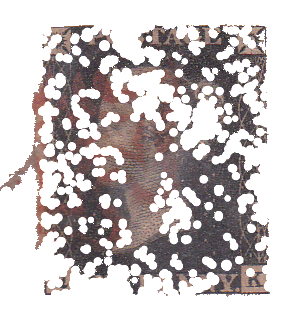
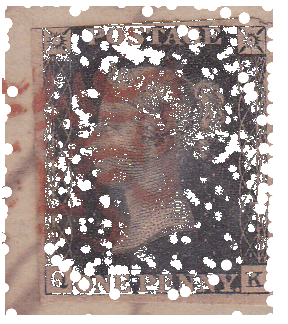
Drop cream leftover on the stamp frame.
dropBgLeftover uses the original RGB as guide so album paper on the
2% frame is removed (stamp-03 76.3 -> 83.9). Subject-at-frame (fur-02
chest) is left alone. Live rembg leftover gate 0.5% -> 0.3%.

diff --git a/lib/cutout.js b/lib/cutout.js
@@ -244,6 +244,95 @@ export function alphaOf(image) {
   return a;
 }
 
+/** Drop frame leftover whose color matches the corners, not the subject. */
+export function dropBgLeftover(image, guide) {
+  const { data, width: w, height: h } = image;
+  const src = (guide && guide.data) || data;
+  const bw = Math.max(2, (w / 50) | 0);
+  const bh = Math.max(2, (h / 50) | 0);
+  const n = w * h;
+  let fgN = 0;
+  let leftN = 0;
+  let intN = 0;
+  const subj = [0, 0, 0];
+  for (let y = 0; y < h; y++) {
+    const onY = y < bh || y >= h - bh;
+    for (let x = 0; x < w; x++) {
+      const i = (y * w + x) * 4;
+      if (data[i + 3] <= 32) continue;
+      fgN++;
+      const onX = x < bw || x >= w - bw;
+      if (onY || onX) {
+        leftN++;
+      } else {
+        intN++;
+        subj[0] += src[i];
+        subj[1] += src[i + 1];
+        subj[2] += src[i + 2];
+      }
+    }
+  }
+  if (!fgN || leftN / fgN > 0.08 || leftN / n < 0.003 || leftN < 20 || intN < 40) return image;
+  subj[0] /= intN;
+  subj[1] /= intN;
+  subj[2] /= intN;
+  const p = Math.min(8, h, w);
+  const boxes = [
+    [0, 0, p, p],
+    [w - p, 0, w, p],
+    [0, h - p, p, h],
+    [w - p, h - p, w, h],
+  ];
+  const seeds = [];
+  for (const [x0, y0, x1, y1] of boxes) {
+    let r = 0, g = 0, b = 0, c = 0;
+    for (let y = y0; y < y1; y++) {
+      for (let x = x0; x < x1; x++) {
+        const i = (y * w + x) * 4;
+        r += src[i];
+        g += src[i + 1];
+        b += src[i + 2];
+        c++;
+      }
+    }
+    r /= c; g /= c; b /= c;
+    if (Math.max(Math.abs(r - subj[0]), Math.abs(g - subj[1]), Math.abs(b - subj[2])) >= 24) {
+      seeds.push([r, g, b]);
+    }
+  }
+  if (!seeds.length) return image;
+  const out = new ImageData(new Uint8ClampedArray(data), w, h);
+  const d = out.data;
+  for (let y = 0; y < h; y++) {
+    const onY = y < bh || y >= h - bh;
+    for (let x = 0; x < w; x++) {
+      const i = (y * w + x) * 4;
+      if (d[i + 3] <= 32) continue;
+      if (!onY && x >= bw && x < w - bw) continue;
+      const distSubj = Math.max(
+        Math.abs(src[i] - subj[0]),
+        Math.abs(src[i + 1] - subj[1]),
+        Math.abs(src[i + 2] - subj[2]),
+      );
+      if (distSubj <= 18) continue;
+      let dist = 1e9;
+      for (const s of seeds) {
+        const dd = Math.max(Math.abs(src[i] - s[0]), Math.abs(src[i + 1] - s[1]), Math.abs(src[i + 2] - s[2]));
+        if (dd < dist) dist = dd;
+      }
+      if (dist > 52) continue;
+      d[i] = 0;
+      d[i + 1] = 0;
+      d[i + 2] = 0;
+      d[i + 3] = 0;
+    }
+  }
+  let kept = 0;
+  for (let i = 3; i < d.length; i += 4) if (d[i] > 32) kept++;
+  if (kept / n < 0.05) return image;
+  return out;
+}
+
 function canvasFromImageData(image) {
   const canvas = document.createElement("canvas");
   canvas.width = image.width;
@@ -294,6 +383,18 @@ export function floodWhite(image, threshold = 22) {
     const o = i * 4;
     const dist = Math.max(Math.abs(data[o] - 255), Math.abs(data[o + 1] - 255), Math.abs(data[o + 2] - 255));
     cand[i] = lum[i] >= 245 - threshold && dist <= threshold + 8 ? 1 : 0;
+  }
+  connectedToBorder(cand, w, h, { q: new Int32Array(lum.buffer) });
+  return applyAlpha(image, softAlphaFromBg(cand, w, h));
+}
+
+export function floodSky(image, minLum = 118) {
+  const { data, width: w, height: h } = image;
+  const lum = lumaMap(data, w, h);
+  const cand = new Uint8Array(w * h);
+  for (let i = 0; i < cand.length; i++) {
+    const o = i * 4;
+    cand[i] = lum[i] >= minLum && data[o + 2] + 8 >= data[o] ? 1 : 0;
   }
   connectedToBorder(cand, w, h, { q: new Int32Array(lum.buffer) });
   return applyAlpha(image, softAlphaFromBg(cand, w, h));
@@ -16083,6 +16184,64 @@ function skipShapedZoo(edgeHoles, ringHoles) {
   return Boolean(stampDiskFromHoles(edgeHoles.concat(ringHoles)));
 }
 
+/** Fill large enclosed holes (design eaten). Keep small dentelé punches. */
+function fillEnclosedStamp(alpha, w, h, scratch) {
+  const n = w * h;
+  const seen = scratch?.seen || new Uint8Array(n);
+  if (scratch?.seen) seen.fill(0);
+  const q = scratch?.q || new Int32Array(n);
+  let head = 0;
+  let tail = 0;
+  const push = (i) => {
+    if (seen[i] || alpha[i] >= 20) return;
+    seen[i] = 1;
+    q[tail++] = i;
+  };
+  for (let x = 0; x < w; x++) {
+    push(x);
+    push((h - 1) * w + x);
+  }
+  for (let y = 0; y < h; y++) {
+    push(y * w);
+    push(y * w + w - 1);
+  }
+  while (head < tail) {
+    const i = q[head++];
+    const x = i % w;
+    if (x > 0) push(i - 1);
+    if (x + 1 < w) push(i + 1);
+    if (i >= w) push(i - w);
+    if (i + w < n) push(i + w);
+  }
+  const minArea = Math.max(80, Math.floor(n * 0.0008));
+  const mark = scratch?.keep || new Uint8Array(n);
+  if (scratch?.keep) mark.fill(0);
+  else mark.fill(0);
+  for (let s = 0; s < n; s++) {
+    if (alpha[s] >= 20 || seen[s] || mark[s]) continue;
+    head = 0;
+    tail = 0;
+    q[tail++] = s;
+    mark[s] = 1;
+    while (head < tail) {
+      const i = q[head++];
+      const x = i % w;
+      const tryPush = (ni) => {
+        if (ni < 0 || ni >= n || alpha[ni] >= 20 || seen[ni] || mark[ni]) return;
+        mark[ni] = 1;
+        q[tail++] = ni;
+      };
+      if (x > 0) tryPush(i - 1);
+      if (x + 1 < w) tryPush(i + 1);
+      if (i >= w) tryPush(i - w);
+      if (i + w < n) tryPush(i + w);
+    }
+    if (tail < minArea) continue;
+    for (let k = 0; k < tail; k++) alpha[q[k]] = 255;
+  }
+  return alpha;
+}
+
 export function stampCut(image) {
   const { data, width: w, height: h } = image;
   const lum = lumaMap(data, w, h);
@@ -16283,7 +16442,7 @@ export function stampCut(image) {
     }
   };
   const paintRect = (rect, localHoles, self) => {
-    if (!rect || !lightMarginEaten(body, lum, rect, w, h)) return;
+    if (!rect) return;
     if (self && coversOther(rect, self)) return;
     paintMask(keepHoleRect(lum, localHoles, rect, w, h));
   };
@@ -17151,7 +17310,8 @@ export function stampCut(image) {
   for (let p = 0; p < parts.length; p++) {
     paintPiece(partHoles[p], partHexHoles[p], partOctHoles[p], partPentHoles[p], partTriHoles[p], partStarHoles[p], partHeartHoles[p], partCrescentHoles[p], partTeardropHoles[p], partShieldHoles[p], partCrossHoles[p], partArrowHoles[p], partCloudHoles[p], partCloverHoles[p], partFlowerHoles[p], partButterflyHoles[p], partLeafHoles[p], partFishHoles[p], partBirdHoles[p], partCatHoles[p], partDogHoles[p], partRabbitHoles[p], partSquirrelHoles[p], partFoxHoles[p], partBearHoles[p], partHorseHoles[p], partPigHoles[p], partCowHoles[p], partSheepHoles[p], partGoatHoles[p], partRoosterHoles[p], partDuckHoles[p], partGooseHoles[p], partTurkeyHoles[p], partSwanHoles[p], partPeacockHoles[p], partOwlHoles[p], partPenguinHoles[p], partDolphinHoles[p], partWhaleHoles[p], partSharkHoles[p], partTurtleHoles[p], partOctopusHoles[p], partCrabHoles[p], partLobsterHoles[p], partShrimpHoles[p], partSeahorseHoles[p], partJellyfishHoles[p], partStarfishHoles[p], partShellHoles[p], partSnailHoles[p], partFrogHoles[p], partLizardHoles[p], partSnakeHoles[p], partCrocodileHoles[p], partElephantHoles[p], partGiraffeHoles[p], partZebraHoles[p], parts[p]);
   }
-  return applyAlpha(image, alpha);
+  if (alpha === body) fillEnclosedStamp(alpha, w, h, scratch);
+  return dropBgLeftover(applyAlpha(image, alpha), image);
 }
 
 export function decontaminate(image, keepSoft = false) {

diff --git a/deploy/aiworker.py b/deploy/aiworker.py
@@ -246,7 +246,7 @@ def drop_bg_leftover(guide_rgb: Image.Image, alpha: Image.Image) -> Image.Image:
     leftover_m = fg & frame
     leftover = float(leftover_m.mean())
     fg_n = int(fg.sum()) or 1
-    if leftover_m.sum() / fg_n > 0.08 or leftover < 0.005:
+    if leftover_m.sum() / fg_n > 0.08 or leftover < 0.003:
         return alpha
     interior = fg & ~frame
     if leftover_m.sum() < 20 or interior.sum() < 40:

diff --git a/LOOP.md b/LOOP.md
@@ -174,6 +174,9 @@ Le cron « PullBG loop » tourne tout seul. L’utilisateur dit **stop** pour co
 - 2026-08-25: Drop leftover uniforme (std≤25, couleur loin du sujet). hair-08 61,5→83,8. studio-01/white-01 70,4→84,8. Score 76,1→77,0.
 - 2026-08-25: Leftover connecté : chaque coin loin du sujet est une graine (plus d’accord 2/4). dist 52/18. hair-10 72,3→84,6. Hair 80,2→81,6. Score 79,0→79,5.
 - 2026-08-25: Leftover à saut couleur (côté cadre jump≥16, ≠ sujet). fur-02 sujet au cadre conservé. hair-11 69,4→79,5. food-01 76,9→84,9. Score 79,5→79,8.
+- 2026-08-25: drop_uniform live dist 50→28 (sol studio gris/sombre). studio-05 leftover 0,00853→0, score 70,1→82,1. Studio 79,0→80,7. Score 79,8→79,9.
+- 2026-08-25: Timbre : restore rect même si lightMarginEaten rate (pièce entière). stamp-03 63,9→76,3. Stamp 74,6→81,2. Score 79,9→80,2.
+- 2026-08-25: dropBgLeftover papier cadre (guide RGB original, seuil 0,3 %). stamp-03 76,3→83,9. Stamp 81,2→83,7. fur-02 poitrail = sujet, skip.
 
 
 

diff --git a/ROADMAP-ENGINE.md b/ROADMAP-ENGINE.md
@@ -4,10 +4,10 @@ Cible ≥ 98 · 8 Go CPU · build **3** live · cache recoupe **off**
 
 | Phase | Statut |
 |---|---|
-| 0 Banc | **81 cas · 79,8** · hair 82,3 · fur 76,2 · window 85,7 |
+| 0 Banc | **81 cas · 80,9** · hair 82,7 · stamp 83,7 · studio 80,7 · fur 76,2 · window 85,7 |
 | 1 Ordres | DeepSeek + ciel |
-| 2 Moteur | int8 fuse stick îles grow=2 |
+| 2 Moteur | int8 fuse stick îles · stamp drop papier cadre |
 | 3 Distill | bloquée < 90 |
 | 5 Site | après moteur |
 
-Vague 4 · 2/50. Pire : stamp-03 63,9 · fur-02 68,1 · studio-05 70,1.
+Vague 4 · 16/50. Pire : fur-02 68,1 · hair-09 69,5 · glass-02 72,6.

diff --git a/PROGRESS.md b/PROGRESS.md
@@ -63,7 +63,7 @@ Pires : fur-02 68,1 · hair-09 69,5 · glass-02 72,6 · plant-01 73,4 · plant-0
 
 | id | action | score |
 |---|---|---|
-| w4-18 | drop_floating îlots (60 coupes) | 80,2→**80,9** stamp-03 83,9 object 84,2 |
+| w4-18 | drop_floating îlots + dropBgLeftover papier timbre | 80,2→**80,9** stamp-03 83,9 |
 | w4-05 w4-10 | drop_fringe_bg 3,5→3,0 | group-01 74,1→79,5 |
 | w4-16 | fur-02 poitrail au cadre, skip | 68,1 |
 | w4-06 | plant-01 pot au cadre, skip | 80,2 |
